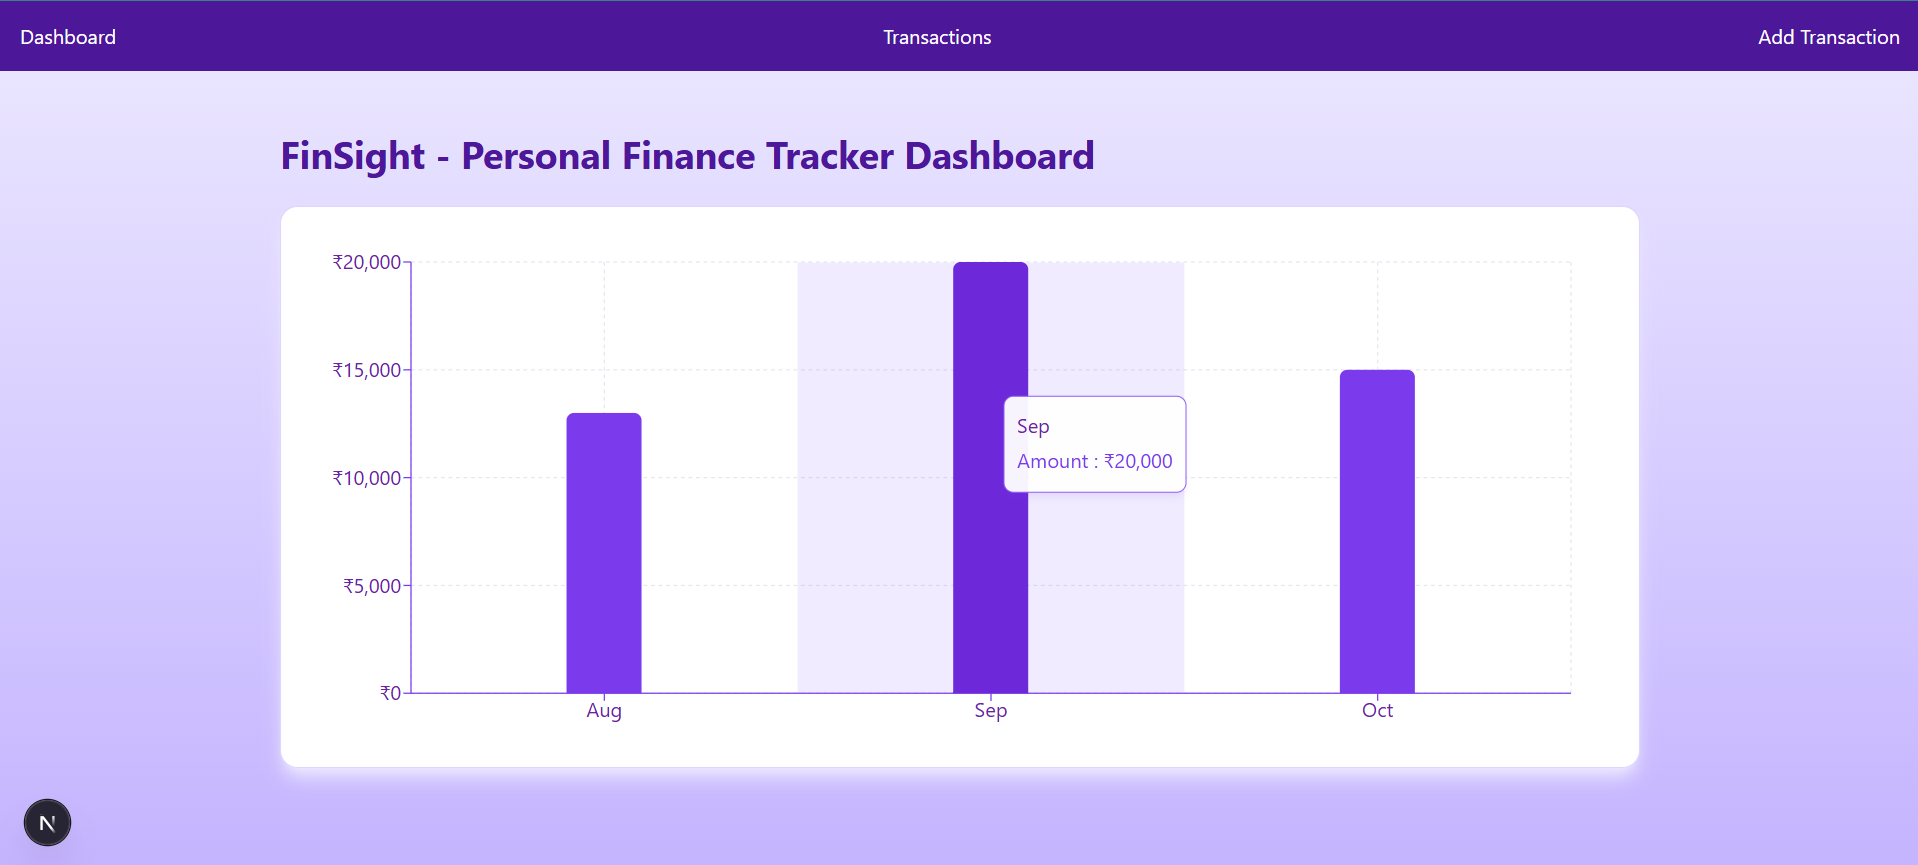
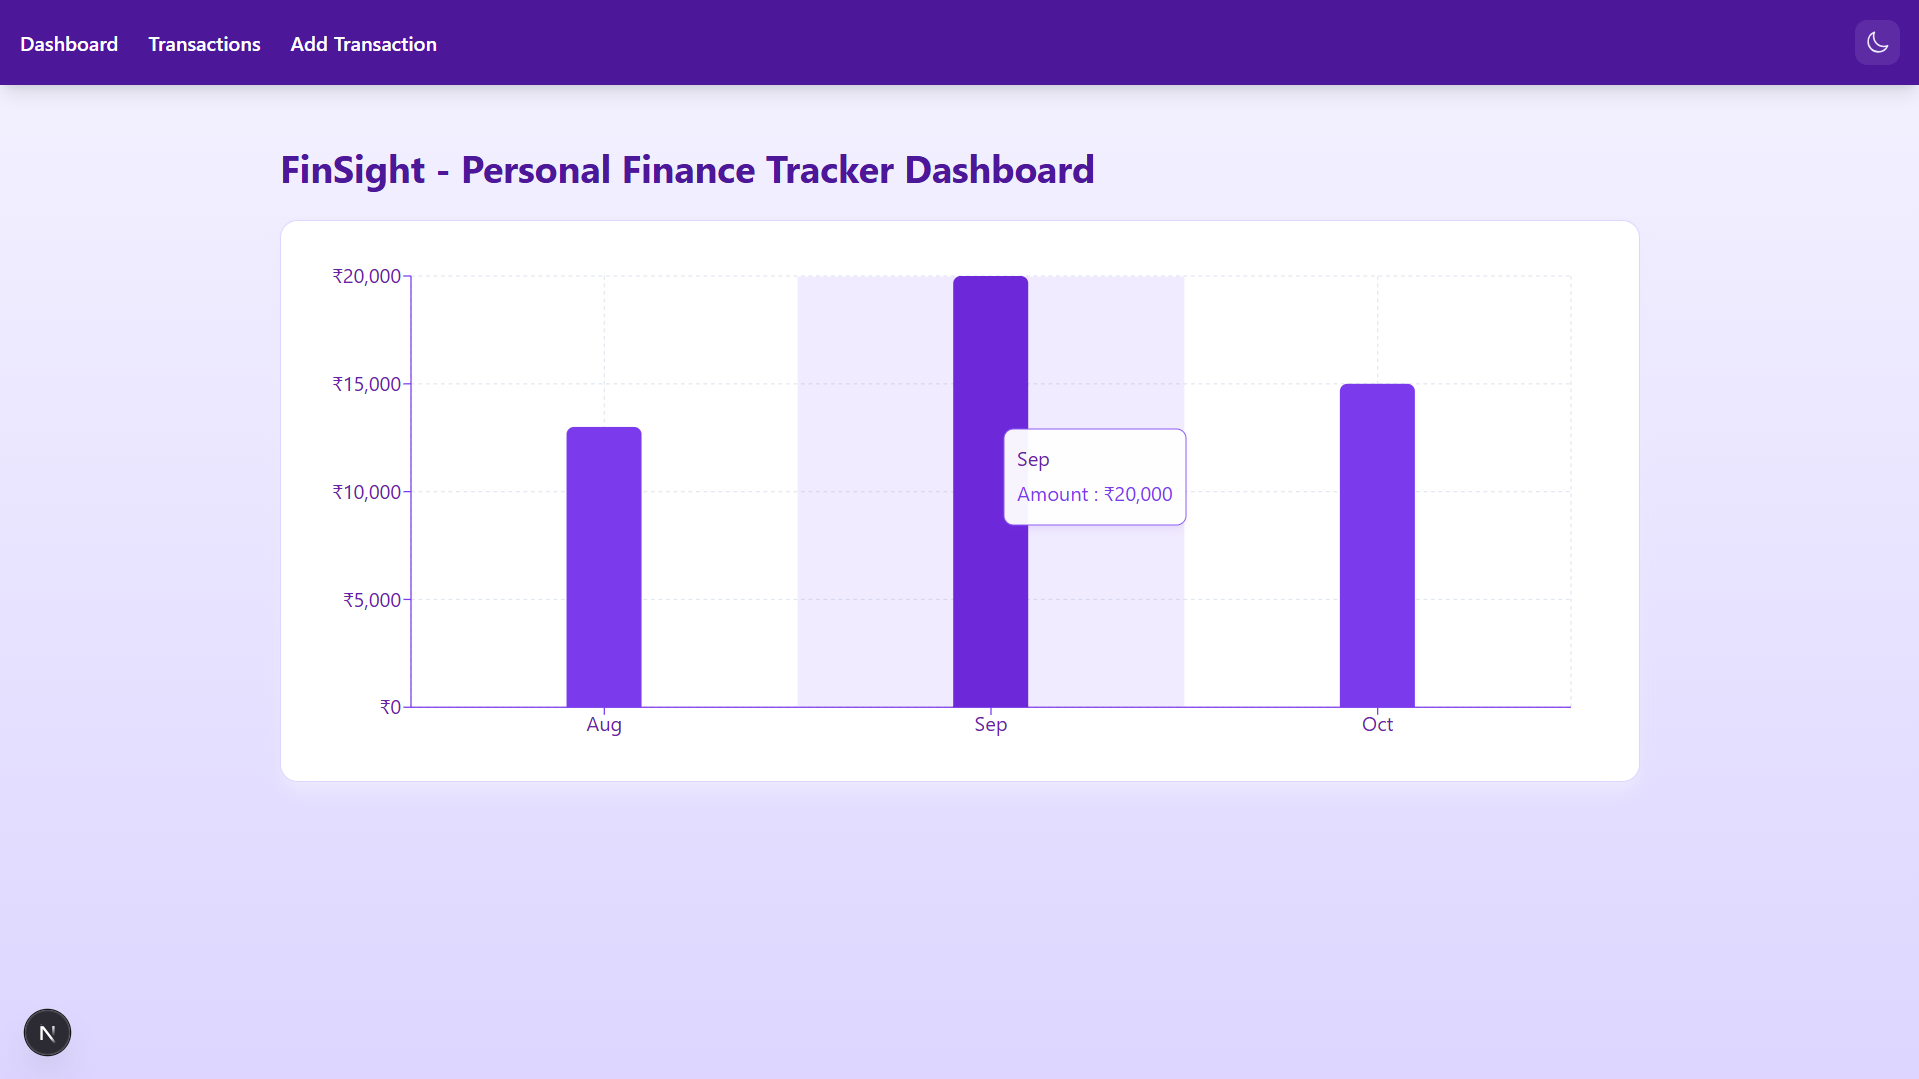
Stage-1 Third Commit

diff --git a/src/app/layout.tsx b/src/app/layout.tsx
@@ -18,9 +18,9 @@ export default function RootLayout({
           <nav className="bg-violet-900 dark:bg-violet-950 text-white p-4 shadow-lg">
             <div className="container mx-auto flex items-center justify-between">
               <div className="flex space-x-6">
-                <Link href="/" className="hover:text-violet-300 transition-colors">Dashboard</Link>
-                <Link href="/transactions" className="hover:text-violet-300 transition-colors">Transactions</Link>
-                <Link href="/add-transaction" className="hover:text-violet-300 transition-colors">Add Transaction</Link>
+                <Link href="/" className="hover:text-violet-300 font-medium transition-colors">Dashboard</Link>
+                <Link href="/transactions" className="hover:text-violet-300 font-medium transition-colors">Transactions</Link>
+                <Link href="/add-transaction" className="hover:text-violet-300 font-medium transition-colors">Add Transaction</Link>
               </div>
               <ThemeToggle />
             </div>
